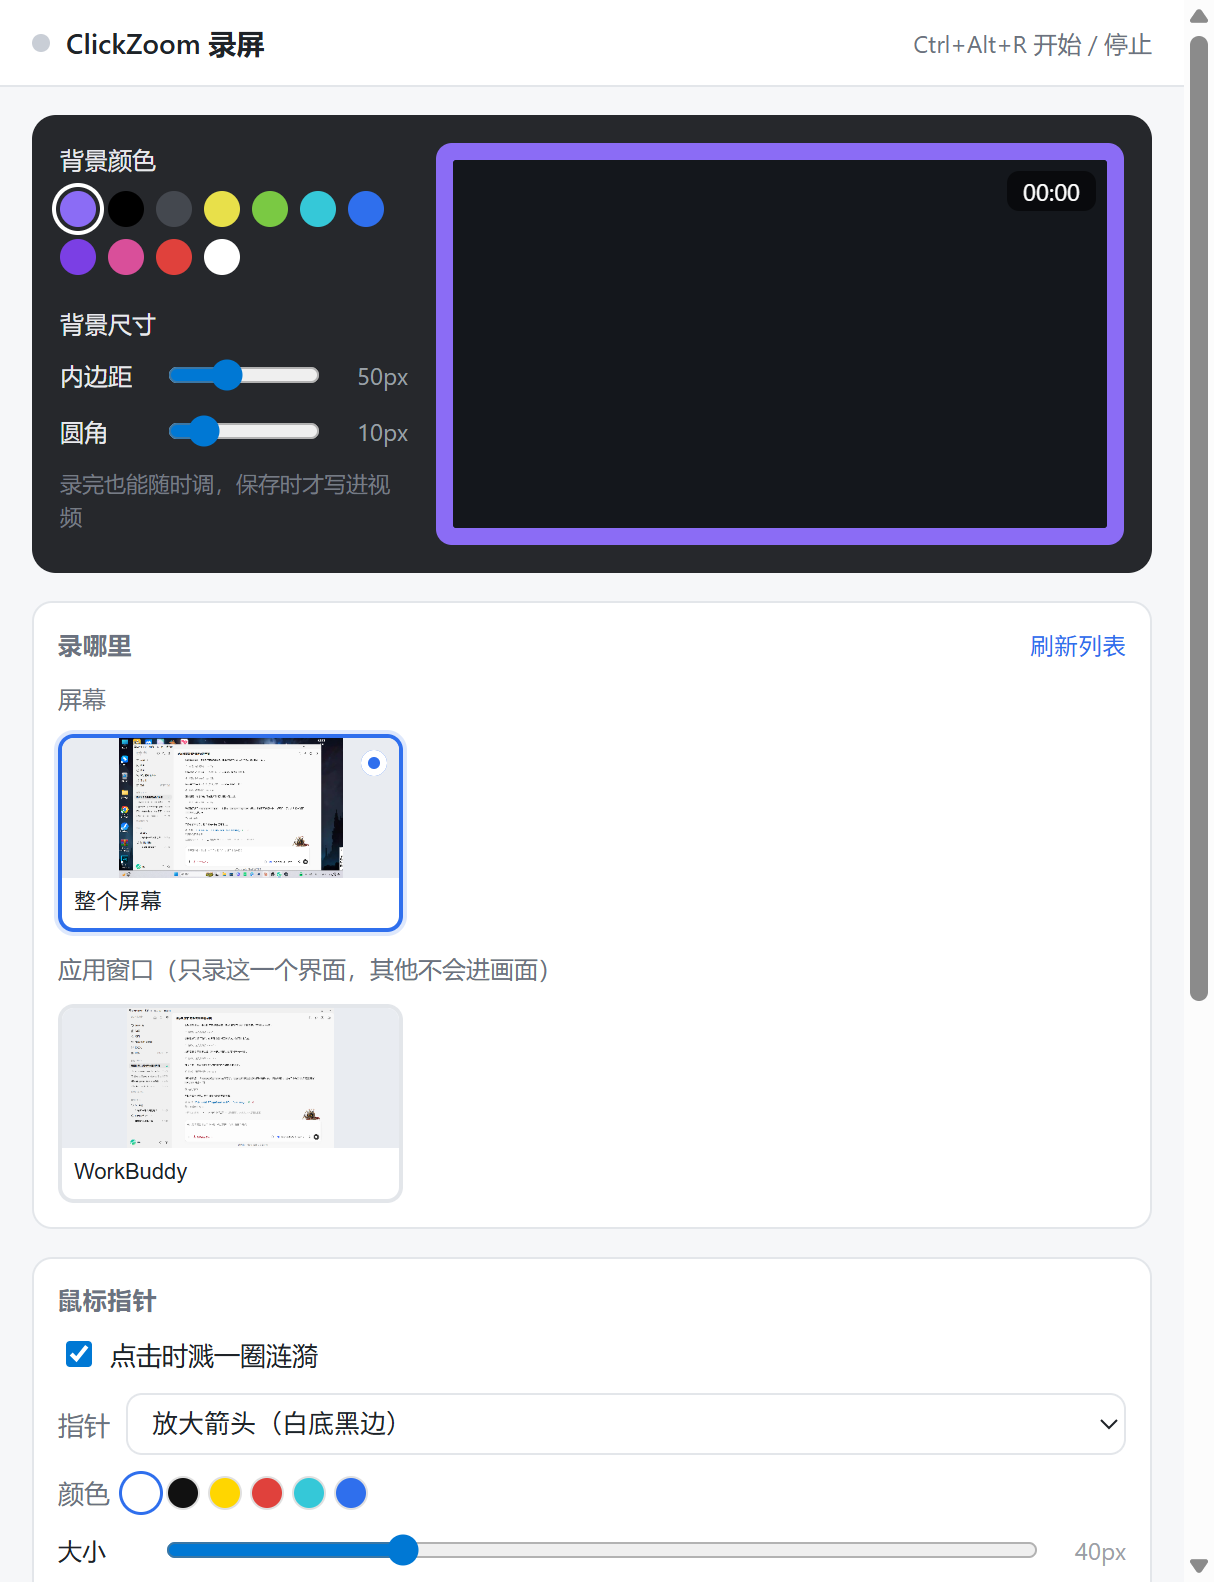
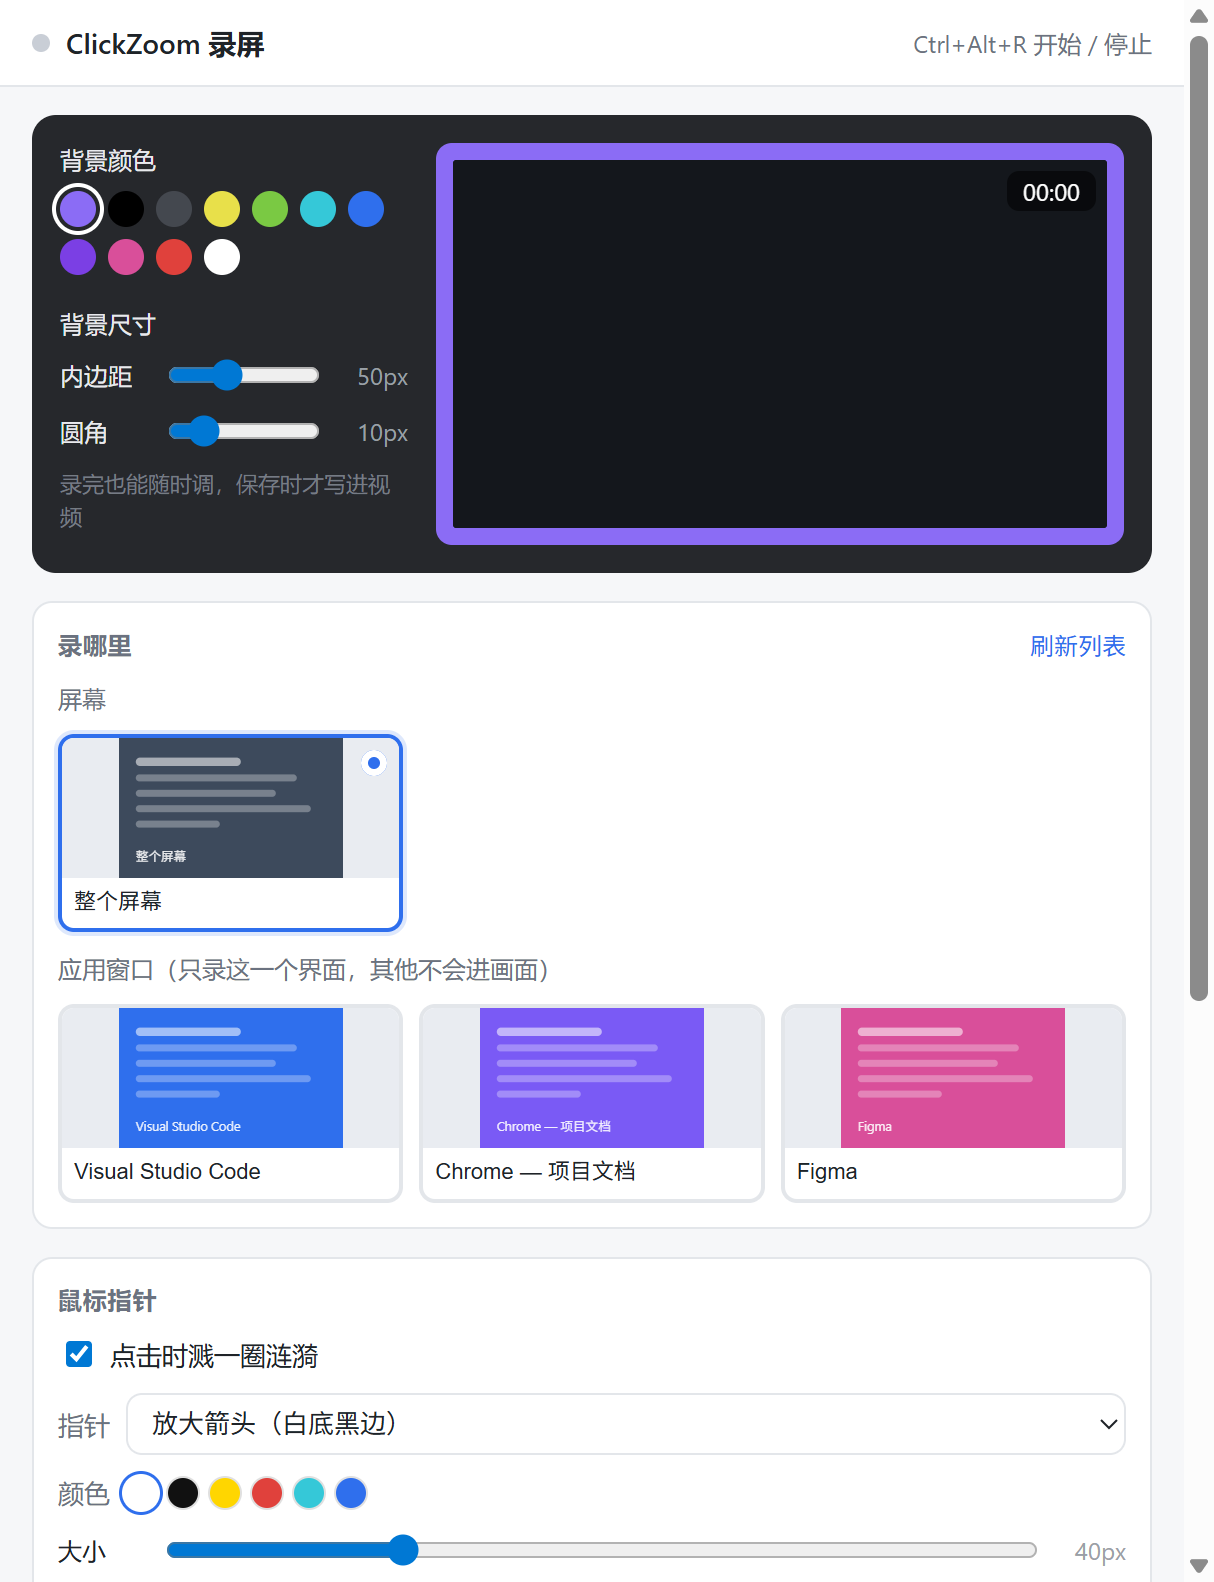
docs: 更新说明文档与演示截图

diff --git a/README.md b/README.md
@@ -1,42 +1,69 @@
 # ClickZoom 录屏
 
-点一下鼠标，镜头自动推近再拉回 —— 类似 DemoGet / Screen Studio 那种效果。
-和它们不同的是：本软件的放大是**录制时实时算出来的**，录完直接是成品，不用后期。
+**点一下鼠标，镜头自动推近。免费、开源、无水印。**
 
-## 安装位置
+做教程视频最烦的是什么？观众看不清你点了哪里。
 
-正式装在 **`D:\ClickZoom`**，桌面快捷方式 **ClickZoom Recorder**，双击就能开。
+这个工具就解决这一件事：**你点到哪，镜头就自动推到哪** —— 停留一下，再拉回来。
+不用手动打关键帧，也不用后期剪辑。
 
-工作区这份是源码，改完要同步过去才生效：
+> Screen Studio 那种"点击自动放大"的效果，Mac 上得花钱买，Windows 上一直没趁手的。
+> 现在有了，而且免费。
 
-```bash
-cp -r src scripts README.md /d/ClickZoom/
-```
-
-`node_modules` 两边一样，不用动。
+![界面](docs/screenshot-ui.png)
 
 ---
 
-## 一、跑起来
+## 为什么值得用
+
+### 💰 免费
+
+- **完全免费、开源**（MIT 协议）—— **没有时长限制、没有水印、不限制导出次数**
+- **不用注册、不用登录**，装完直接用
+- **不联网**：录好的视频只存在你自己电脑上，不经过任何服务器
+- 同类工具基本都要订阅，而且 Screen Studio 只有 Mac 版
+
+### 👍 好用
+
+| 功能 | 说明 |
+| --- | --- |
+| 🖱 **点哪放大哪** | 不用手动打关键帧。你点鼠标，它自动推近 → 停留 → 拉回，快慢自己调 |
+| 🪟 **只录想要的界面** | 带缩略图的可视化列表，选哪个就只录哪个，其他窗口不会入镜 |
+| 🎨 **录完还能调外框** | 背景色、留白、圆角随便拖，右边画面立刻跟着变，满意了再保存 |
+| ✨ **鼠标指针能换** | 六种样式：放大的白箭头、手型、十字、I 型、圆点；颜色、大小都能调 |
+| 👻 **录制时界面自动隐身** | 主窗口让开，只在右下角留个小条给你点"结束" —— 而且**它录不进画面** |
+| ⌨ **键盘也能控制** | `Ctrl + Alt + R` 开始 / 停止，窗口没焦点照样管用 |
+| 🔍 **自带体检** | `npm run selftest` 一键自检，有问题直接告诉你哪儿不对劲 |
+
+---
+
+## 装一下
 
 ```bash
+git clone git@github.com:Iris007-dev/clickzoom-recorder.git
 cd clickzoom-recorder
+npm install
 npm start
 ```
 
-`npm start` 实际执行 `scripts/start.js`。之所以不直接写 `electron .`：某些宿主环境
-（IDE 内置终端）会注入 `ELECTRON_RUN_AS_NODE=1`，这会让 electron.exe 退化成普通 Node，
-`require('electron')` 返回 exe 路径字符串而不是模块，`app.whenReady()` 当场崩。
-引导脚本会先把这个变量删掉再拉起 Electron。
+- 需要 **Node 18+**
+- **Windows 10 2004 以上**（那个"录不进画面"的悬浮控制条依赖系统支持）
 
-如果报找不到 electron 二进制，用国内镜像补装：
+`npm install` 卡在下载 Electron 的话，用国内镜像补一下：
 
 ```bash
 cd node_modules/electron
 ELECTRON_MIRROR=https://npmmirror.com/mirrors/electron/ node install.js
 ```
 
-## 二、怎么用
+> **为什么用 `npm start` 而不是 `electron .`？**
+> 某些环境（比如 IDE 内置终端）会注入 `ELECTRON_RUN_AS_NODE=1`，
+> 让 electron.exe 退化成普通 Node，一启动就崩。
+> `scripts/start.js` 会先把这个变量删掉再拉起 Electron。
+
+---
+
+## 怎么用
 
 **第零步：调画面外框**（界面左上那块深色区域）
 
@@ -112,7 +139,7 @@ ELECTRON_MIRROR=https://npmmirror.com/mirrors/electron/ node install.js
 - `Ctrl + Alt + R` 开始 / 停止录制
 - `Ctrl + Alt + Z` 以当前光标位置为中心推近（鼠标监视器万一罢工时用它）
 
-## 二·五、怀疑有问题时，先跑自检
+## 出问题？先跑自检
 
 ```bash
 npm run selftest
@@ -142,7 +169,7 @@ CZR-SELFTEST {"ok":true,"videoW":2880,"videoH":1800,"canvasW":1920,"canvasH":120
 `ok:true` 就说明整条链路（抓屏 → 缩放 → 编码 → 落盘）是通的。
 自测产物会存到系统临时目录，同时抓一张放大瞬间的快照方便肉眼看。
 
-## 三、四个镜头参数怎么调
+## 镜头参数怎么调
 
 | 参数 | 作用 | 手感建议 |
 | --- | --- | --- |
@@ -153,7 +180,7 @@ CZR-SELFTEST {"ok":true,"videoW":2880,"videoH":1800,"canvasW":1920,"canvasH":120
 
 核心在 `src/renderer/zoom.js`，用的 `easeInOutCubic` 缓动 —— 两头慢中间快，这是"电影感"的来源。改成线性插值会立刻变得很廉价，你可以试试。
 
-## 三·五、鼠标指针
+## 鼠标指针
 
 默认用的是**软件自己画的放大箭头**：白色填充 + 黑色细边 + 一层很轻的投影 ——
 就是你熟悉的那个光标形状，只是更大更清楚，录出来观众一眼就能找到你的鼠标。
@@ -200,7 +227,7 @@ CZR-SELFTEST {"ok":true,"videoW":2880,"videoH":1800,"canvasW":1920,"canvasH":120
 > 想彻底省心，用 **「窗口」模式**：窗口捕获天然不含鼠标光标，
 > 从源头上就不存在这个问题，效果也最干净。
 
-## 四、原理（数据流）
+## 原理：数据是怎么流的
 
 ```
 屏幕流 (desktopCapturer)
@@ -239,7 +266,7 @@ CZR-SELFTEST {"ok":true,"videoW":2880,"videoH":1800,"canvasW":1920,"canvasH":120
 拿这个 hwnd 去问系统要窗口矩形（见 `src/main/window-rect.ps1`），
 再把鼠标的屏幕坐标减掉窗口左上角，换算成窗口画面里的坐标。
 
-## 五、已知限制 & 排错
+## 已知限制 & 排错
 
 - **整屏模式下指针位置不对**：依赖 PowerShell 监视器。它输出的是**物理像素**坐标，和 desktopCapturer
   的画面像素一一对应；高 DPI 屏如果位置偏了，调 `recorder.js` 里的 `ratioX / ratioY`。
@@ -260,21 +287,26 @@ CZR-SELFTEST {"ok":true,"videoW":2880,"videoH":1800,"canvasW":1920,"canvasH":120
   PATH 被塞得极长）会超限。scripts 里已经做了两道防护：Node 侧只传必要变量，
   ps1 里再把超长变量清掉。启动时看到 `TRIMMED x PATH,...` 就说明防护生效了，属正常。
 
-## 六、文件地图
+## 文件地图
 
 ```
-src/
-  main/
-    main.js            主进程：窗口、IPC、热键、保存文件
-    mouse-monitor.js   PowerShell 监视器的 Node 封装
-    mouse-monitor.ps1  轮询系统 API，输出点击/移动（此文件请保持纯 ASCII）
-    czr-native.dll     预编译的 Win32 助手程序集，别删
-  preload/preload.js   安全桥梁，把主进程能力挂到 window.api
-  renderer/
-    index.html         控制面板
-    app.js             界面逻辑
-    zoom.js            缩放状态机 ★效果核心
-    recorder.js        渲染循环与录制 ★效果核心
-    control.html       录制时右下角的悬浮小条
-    region.html        区域框选窗口（界面上的入口已移除，代码留着备用）
+clickzoom-recorder/
+├── src/
+│   ├── main/                  主进程
+│   │   ├── main.js                窗口、IPC、托盘、热键、保存文件
+│   │   ├── mouse-monitor.js       PowerShell 鼠标监视器的 Node 封装
+│   │   ├── mouse-monitor.ps1      轮询系统 API，输出点击/移动（保持纯 ASCII）
+│   │   ├── window-rect.ps1        查窗口在屏幕上的位置（窗口录制要用）
+│   │   └── czr-native.dll         预编译的 Win32 助手，别删
+│   ├── preload/preload.js     安全桥梁，把主进程能力挂到 window.api
+│   └── renderer/              界面
+│       ├── index.html             控制面板
+│       ├── app.js                 界面逻辑
+│       ├── zoom.js                缩放状态机 ★效果核心
+│       ├── recorder.js            渲染循环与录制 ★效果核心
+│       ├── control.html           录制时右下角的悬浮小条
+│       └── region.html            区域框选窗口（入口已移除，留着备用）
+├── scripts/start.js           启动引导（清掉 ELECTRON_RUN_AS_NODE 再拉起 Electron）
+├── docs/                      README 用的截图
+└── LICENSE                    MIT
 ```
